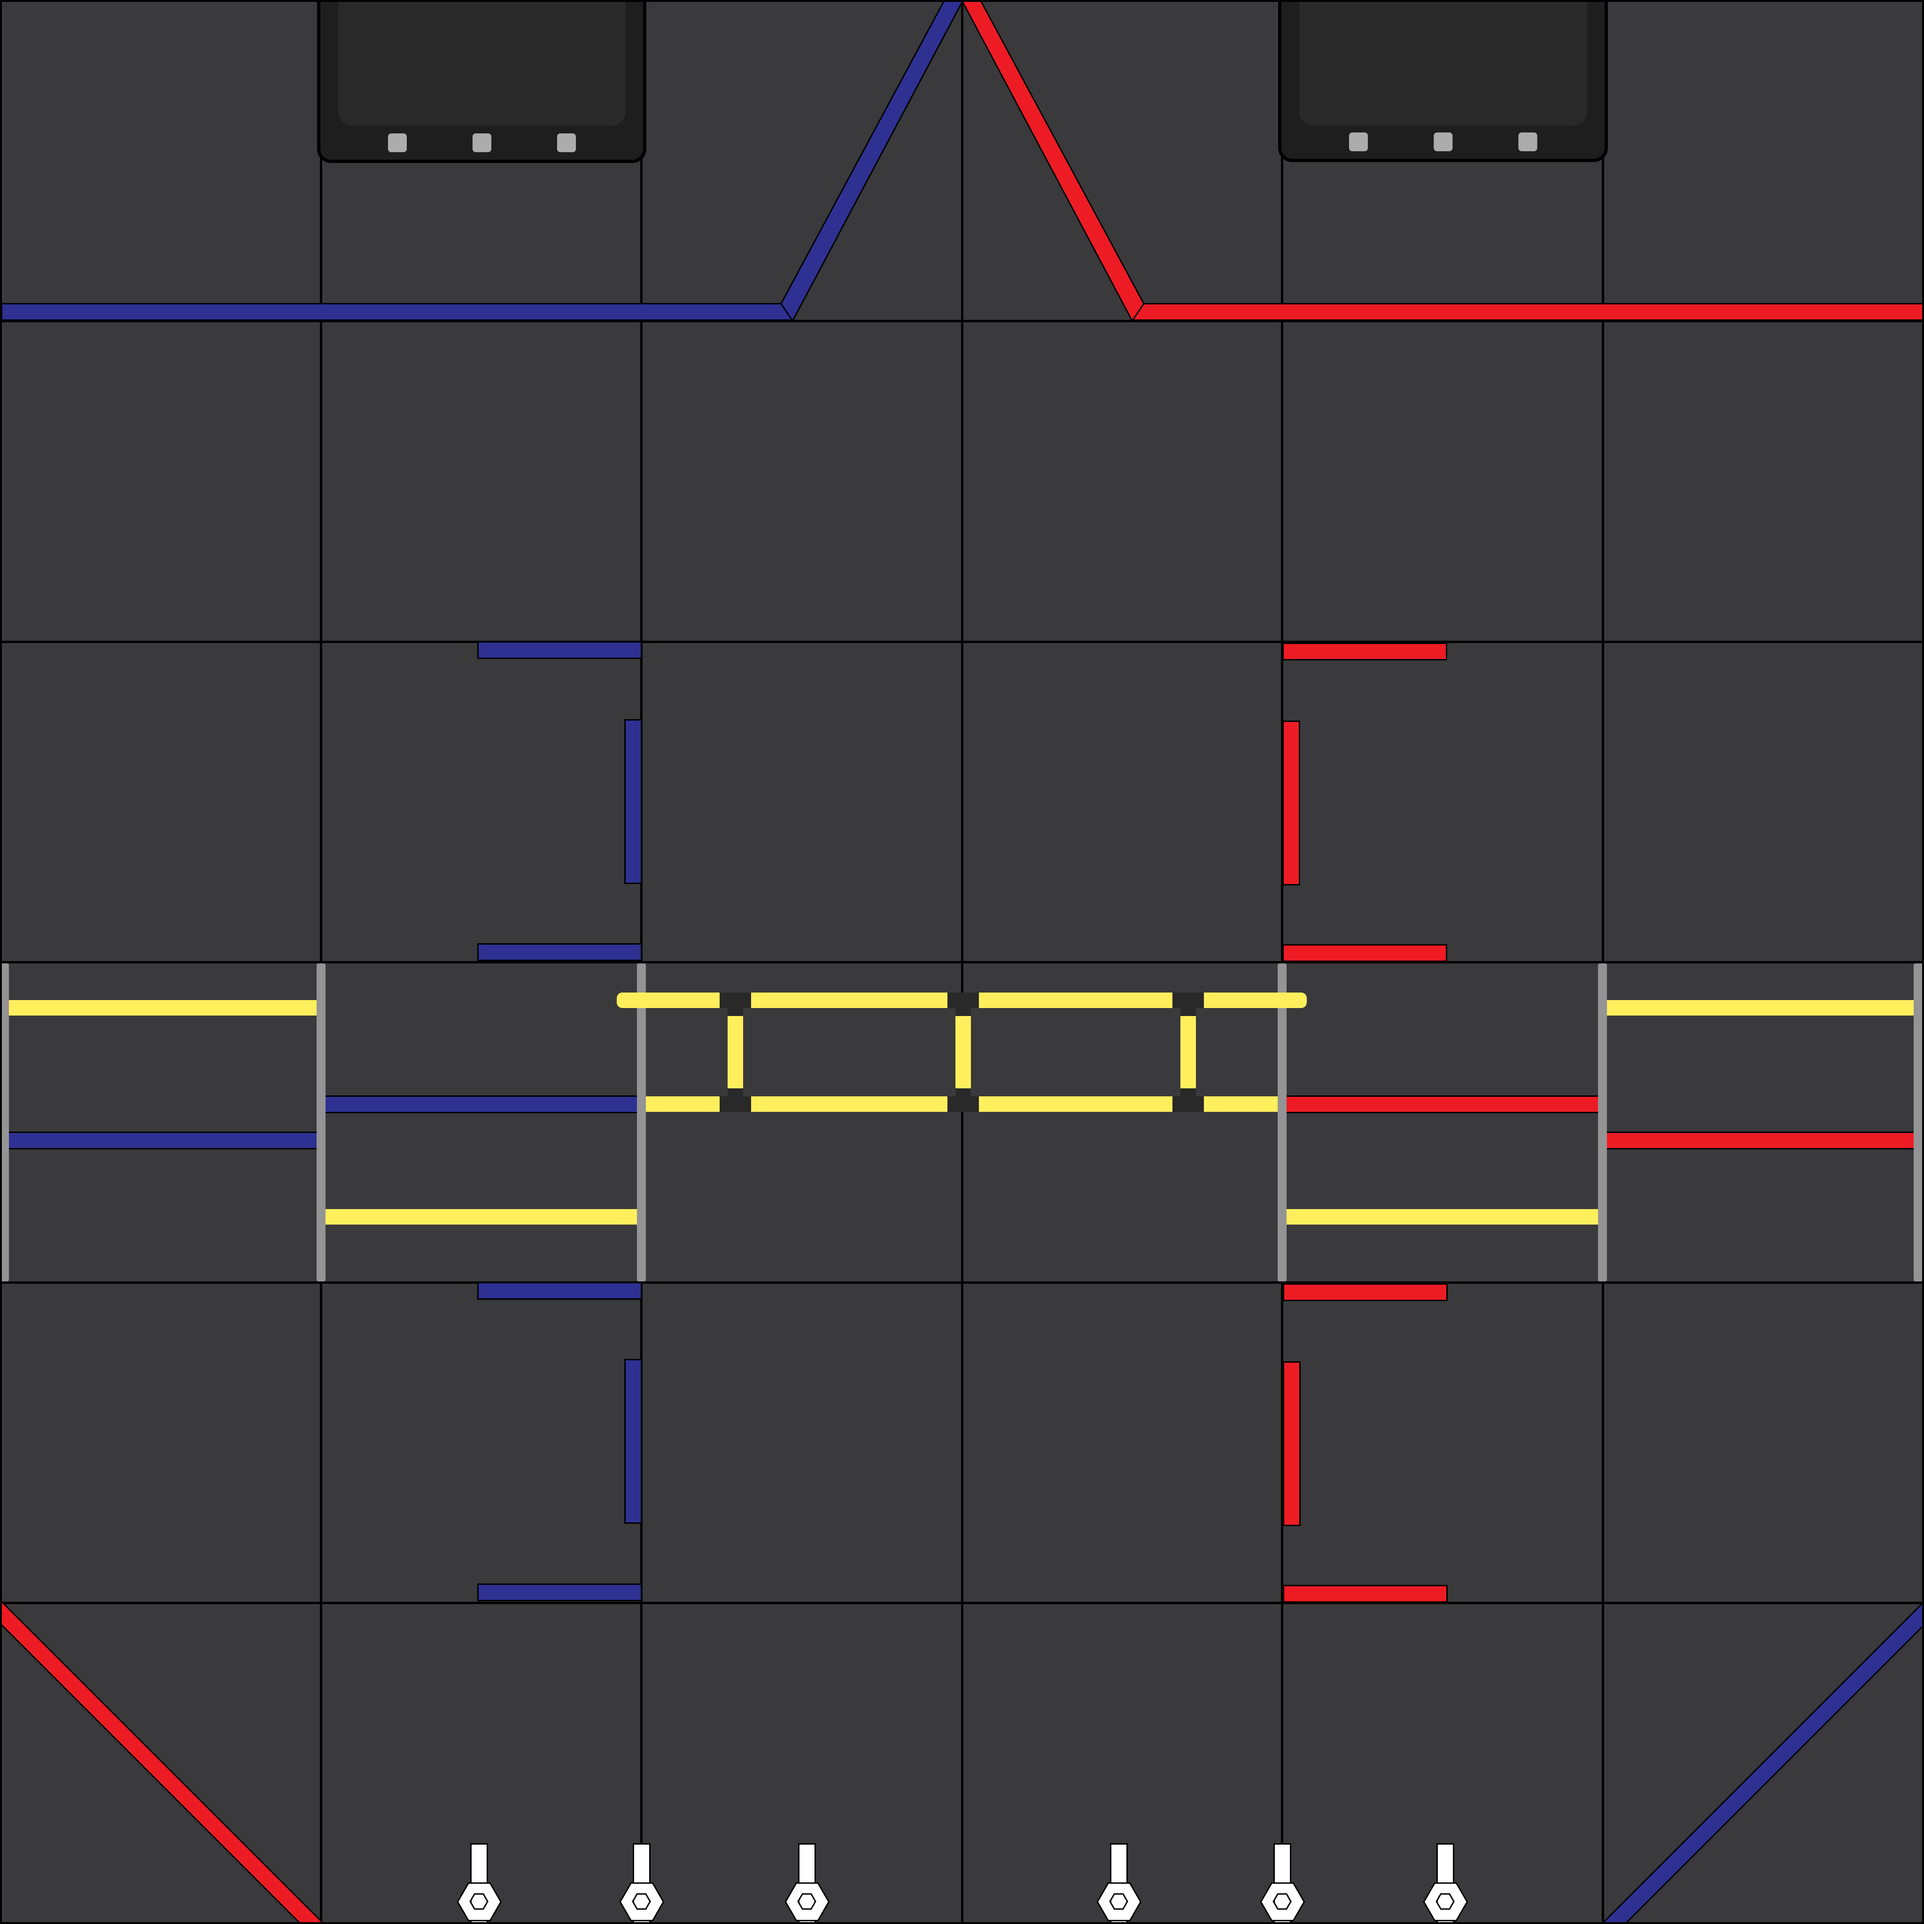
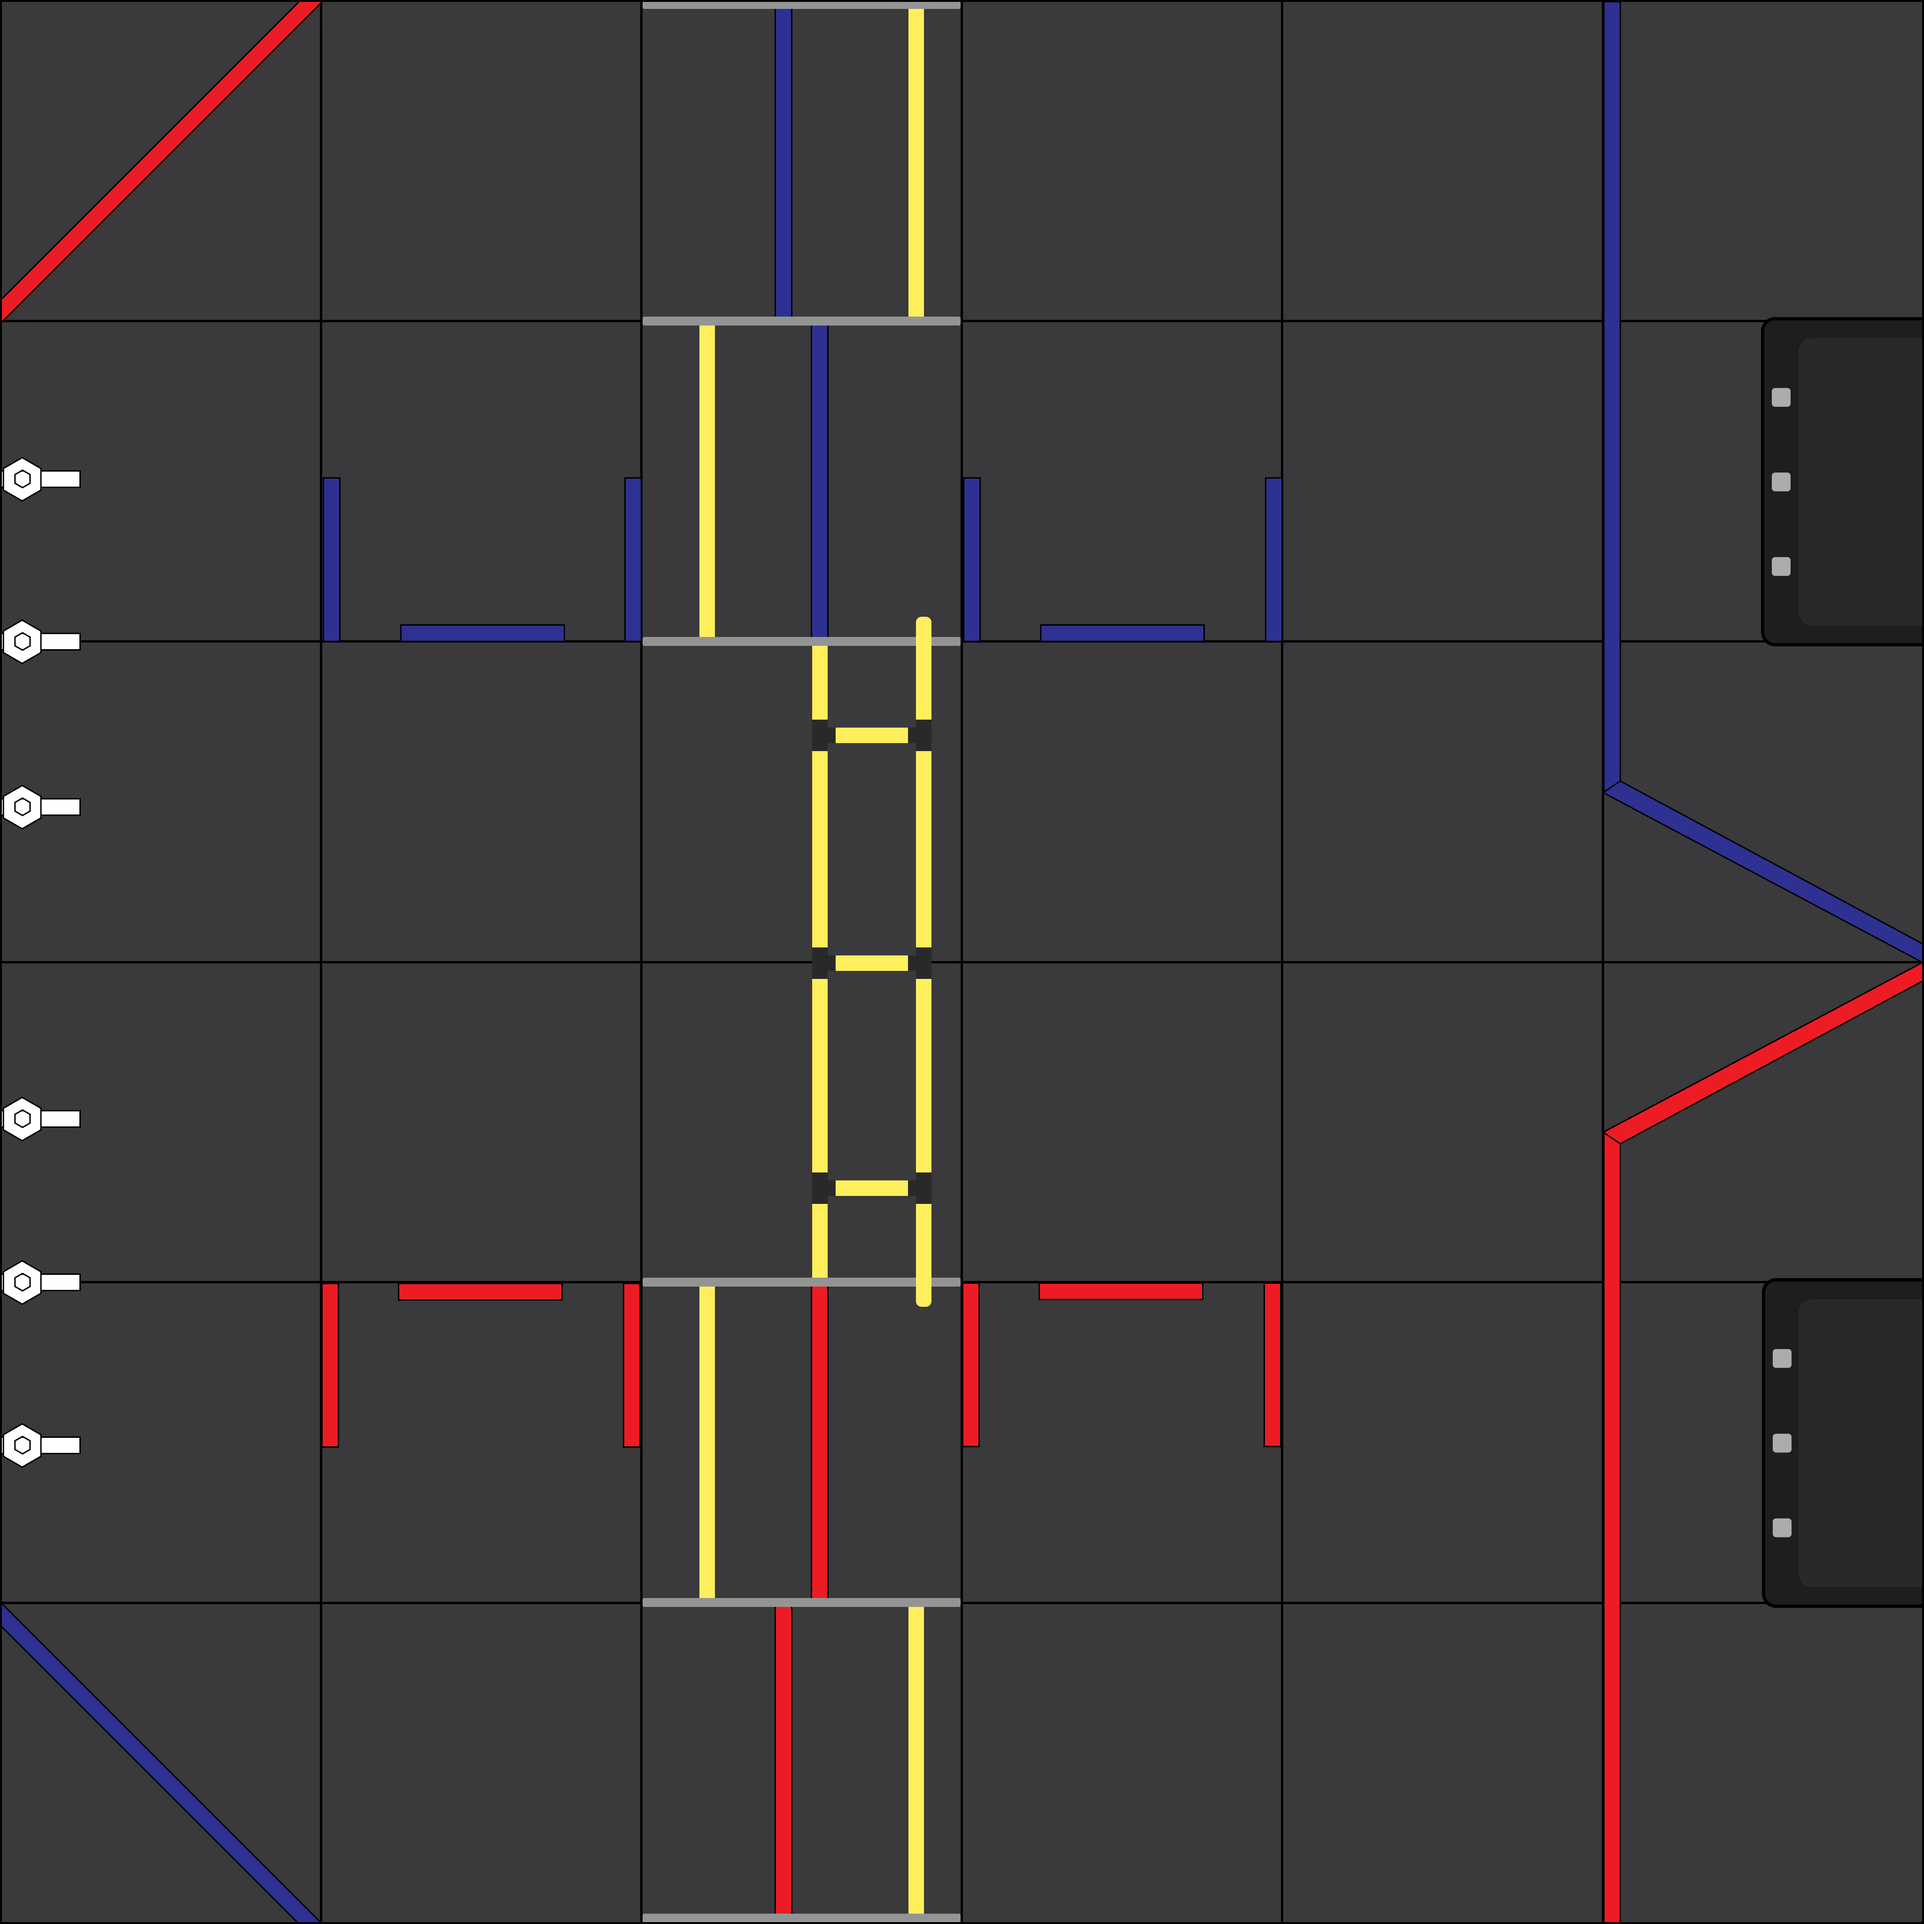
Replaced all with rotated
Rotated all 2023 field images

diff --git a/src/main/kotlin/com/noahbres/meepmeep/MeepMeep.kt b/src/main/kotlin/com/noahbres/meepmeep/MeepMeep.kt
@@ -329,10 +329,6 @@ open class MeepMeep @JvmOverloads constructor(private val windowSize: Int, fps: 
                 colorManager.isDarkMode = false
                 ImageIO.read(classLoader.getResourceAsStream("background/season-2023-centerstage/field-2023-juice-dark.png"))
             }
-            Background.FIELD_CENTERSTAGE_JUICE_DARK_ROTATED -> {
-                colorManager.isDarkMode = false
-                ImageIO.read(classLoader.getResourceAsStream("background/season-2023-centerstage/field-2023-juice-dark-rotated.png"))
-            }
             Background.FIELD_CENTERSTAGE_JUICE_LIGHT -> {
                 colorManager.isDarkMode = false
                 ImageIO.read(classLoader.getResourceAsStream("background/season-2023-centerstage/field-2023-juice-light.png"))
@@ -476,7 +472,6 @@ open class MeepMeep @JvmOverloads constructor(private val windowSize: Int, fps: 
         FIELD_POWERPLAY_KAI_LIGHT,
         FIELD_CENTERSTAGE_OFFICIAL,
         FIELD_CENTERSTAGE_JUICE_DARK,
-        FIELD_CENTERSTAGE_JUICE_LIGHT,
-        FIELD_CENTERSTAGE_JUICE_DARK_ROTATED
+        FIELD_CENTERSTAGE_JUICE_LIGHT
     }
 }
